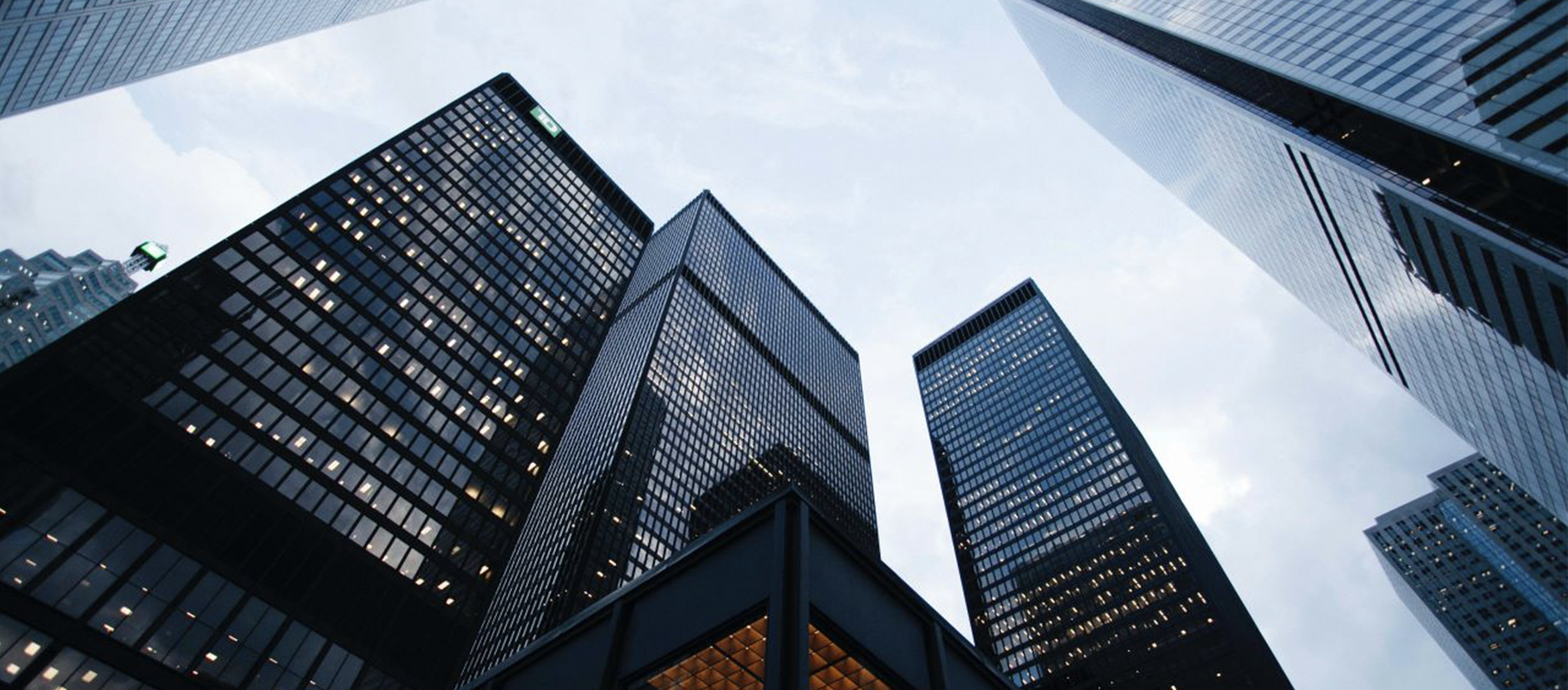
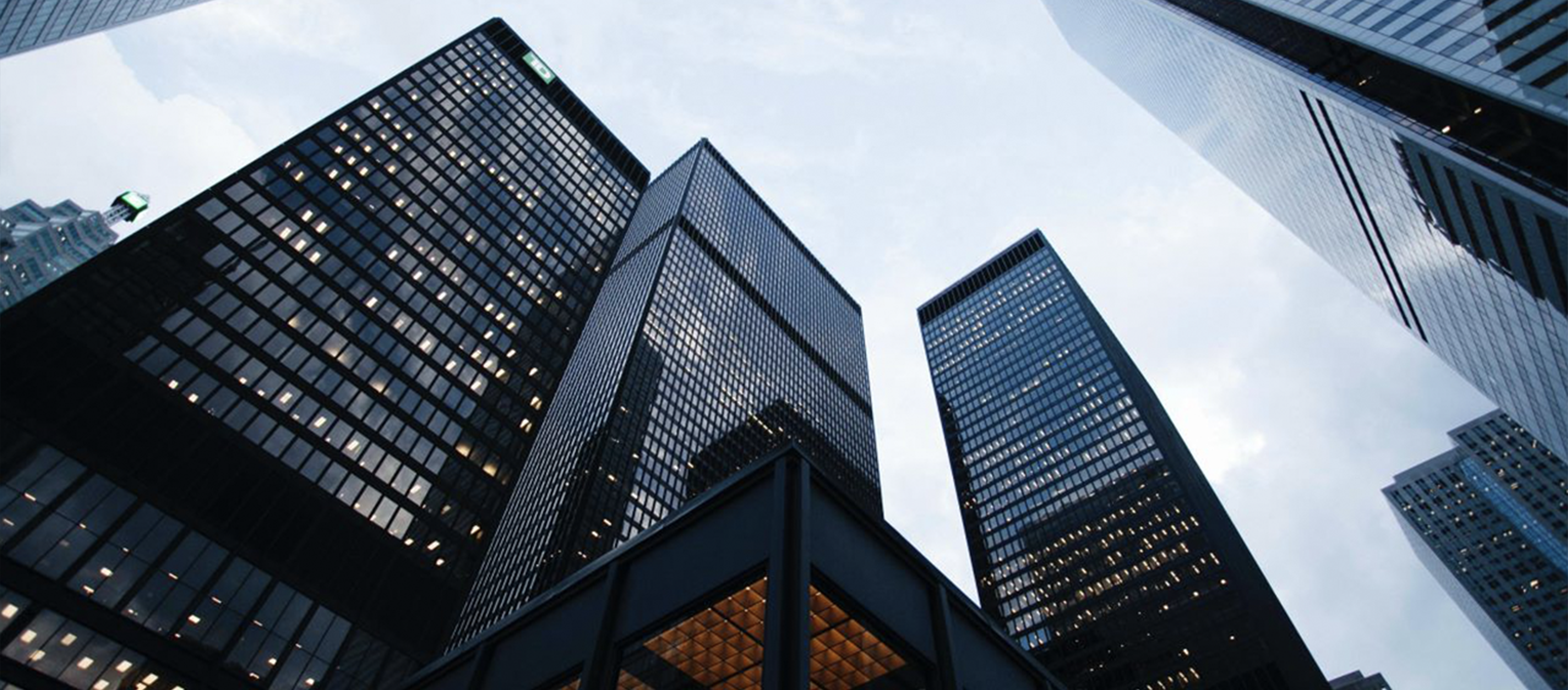
commit

diff --git a/index.html b/index.html
@@ -72,7 +72,6 @@
       <!--==================== HOME ====================-->
       <section class="home section" id="home">
         <div class="home__container container grid">
-          <img src="assets/img/bg.png" alt="background" />
           <!--<div class="home__data">
             <h1 class="home__title">
               Discover <br />
@@ -83,49 +82,6 @@
               Find a variety of properties that suit you very easily, forget all
               difficulties in finding a residence for you
             </p>
-
-            <form action="" class="home__search">
-              <i class="bx bxs-map"></i>
-              <input
-                type="search"
-                placeholder="Search by location..."
-                class="home__search-input" />
-              <button class="button">Search</button>
-            </form>
-
-            <div class="home__value">
-              <div>
-                <h1 class="home__value-number">9K <span>+</span></h1>
-                <span class="home__value-description">
-                  Premium <br />
-                  Product
-                </span>
-              </div>
-
-              <div>
-                <h1 class="home__value-number">2K <span>+</span></h1>
-                <span class="home__value-description">
-                  Happy <br />
-                  Customer
-                </span>
-              </div>
-
-              <div>
-                <h1 class="home__value-number">28K <span>+</span></h1>
-                <span class="home__value-description">
-                  Awards <br />
-                  Winning
-                </span>
-              </div>
-            </div>
-          </div>
-
-          <div class="home__images">
-            <div class="home__orbe"></div>
-
-            <div class="home__img">
-              <img src="assets/img/home.png" alt="" />
-            </div>
           </div>-->
         </div>
       </section>

diff --git a/assets/css/styles.css b/assets/css/styles.css
@@ -329,7 +329,6 @@ body.dark-theme {
 }
 
 .home__container {
-  padding-top: 4rem;
   row-gap: 3.5rem;
 }
 
@@ -1149,18 +1148,15 @@ p.contact__card-description {
 
   .home {
     padding-bottom: 0;
+    background-image: url("assets/img/bg.png");
+    background-repeat: no-repeat;
+    background-size: cover;
   }
   /*revan*/
   .home__container {
     column-gap: 2rem;
   }
-  /*revan*/
-  div.home__container.container.grid {
-    max-width: max-content;
-    margin-left: 0rem;
-    margin-right: 0;
-    padding-top: 0rem;
-  }
+
   .home__data {
     padding-bottom: 4rem;
   }
